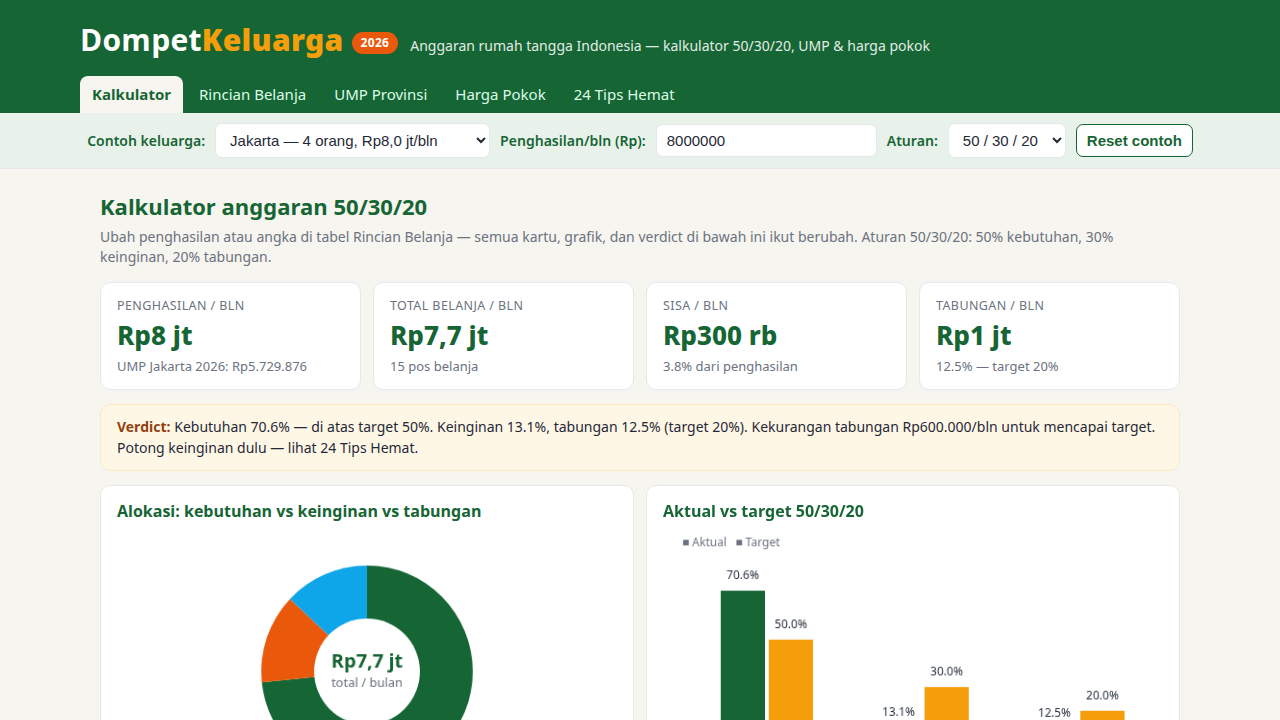
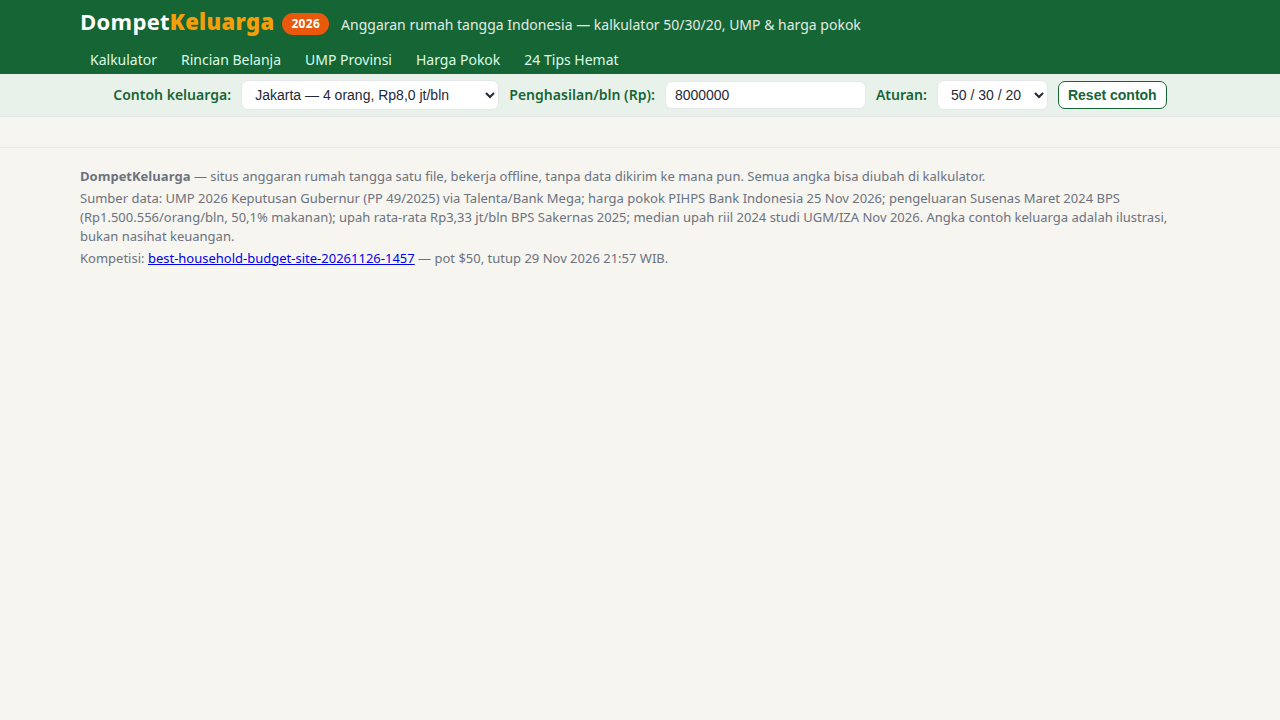
Perbaiki gap: hero strip gaji vs UMP, layar pertama dipadatkan, donat+bar muat penuh 720px, label bar dirapikan

diff --git a/app/index.html b/app/index.html
@@ -8,38 +8,44 @@
 :root{--green:#166534;--green2:#15803d;--amber:#ea580c;--amber2:#f59e0b;--ink:#1f2937;--mut:#6b7280;--line:#e5e7eb;--bg:#f7f5ef;--card:#fff;--red:#b91c1c}
 *{box-sizing:border-box;margin:0;padding:0}
 body{font-family:system-ui,-apple-system,"Segoe UI",Roboto,Arial,sans-serif;background:var(--bg);color:var(--ink);line-height:1.45}
-header{background:var(--green);color:#fff;padding:18px 20px 0}
+header{background:var(--green);color:#fff;padding:6px 20px 0}
 .wrap{max-width:1120px;margin:0 auto}
 .brand{display:flex;align-items:baseline;gap:12px;flex-wrap:wrap}
-.brand h1{font-size:30px;letter-spacing:.3px}
+.brand h1{font-size:22px;letter-spacing:.3px}
 .brand h1 b{color:var(--amber2)}
 .brand p{opacity:.88;font-size:14px}
-nav{display:flex;gap:4px;flex-wrap:wrap;margin-top:14px}
-nav a{color:#dcfce7;text-decoration:none;padding:8px 12px;border-radius:8px 8px 0 0;font-size:15px}
+nav{display:flex;gap:4px;flex-wrap:wrap;margin-top:8px}
+nav a{color:#dcfce7;text-decoration:none;padding:4px 10px;border-radius:8px 8px 0 0;font-size:14px}
 nav a:hover{background:rgba(255,255,255,.14);color:#fff}
 nav a.on{background:var(--bg);color:var(--green);font-weight:700}
-.controls{display:flex;gap:10px;align-items:center;padding:10px 20px;background:#e9f2ea;border-bottom:1px solid var(--line);flex-wrap:wrap}
+.controls{display:flex;gap:10px;align-items:center;padding:6px 20px;background:#e9f2ea;border-bottom:1px solid var(--line);flex-wrap:wrap}
 .controls label{font-size:14px;color:var(--green);font-weight:600}
-.controls select,.controls input,.controls button{font-size:15px;padding:7px 10px;border:1px solid var(--line);border-radius:7px;background:#fff;color:var(--ink)}
+.controls select,.controls input,.controls button{font-size:14px;padding:5px 9px;border:1px solid var(--line);border-radius:7px;background:#fff;color:var(--ink)}
 .controls button{background:var(--amber);color:#fff;border-color:var(--amber);font-weight:700;cursor:pointer}
 .controls button.ghost{background:#fff;color:var(--green);border-color:var(--green)}
-main{max-width:1120px;margin:0 auto;padding:18px 20px 30px}
+main{max-width:1120px;margin:0 auto;padding:6px 20px 24px}
 section.page{display:none}
 section.page.on{display:block}
-h2{font-size:22px;color:var(--green);margin:4px 0}
-.sub{color:var(--mut);font-size:14px;margin-bottom:14px}
-.cards{display:grid;grid-template-columns:repeat(4,1fr);gap:12px;margin-bottom:14px}
-.card{background:var(--card);border:1px solid var(--line);border-radius:10px;padding:14px 16px}
-.card .k{font-size:12.5px;color:var(--mut);text-transform:uppercase;letter-spacing:.4px}
-.card .v{font-size:26px;font-weight:800;color:var(--green);margin-top:2px}
+h2{font-size:20px;color:var(--green);margin:2px 0}
+.sub{color:var(--mut);font-size:13.5px;margin-bottom:8px}
+.cards{display:grid;grid-template-columns:repeat(4,1fr);gap:10px;margin-bottom:10px}
+.card{background:var(--card);border:1px solid var(--line);border-radius:10px;padding:8px 14px}
+.card .k{font-size:12px;color:var(--mut);text-transform:uppercase;letter-spacing:.4px}
+.card .v{font-size:23px;font-weight:800;color:var(--green);margin-top:1px}
+.hero{display:flex;gap:0;background:var(--green);color:#fff;border-radius:10px;margin-bottom:8px;overflow:hidden}
+.hero div{flex:1;padding:6px 14px;border-left:1px solid rgba(255,255,255,.25)}
+.hero div:first-child{border-left:none}
+.hero .hk{font-size:12px;opacity:.85}
+.hero .hv{font-size:17px;font-weight:800;color:var(--amber2)}
+.hero .hd{font-size:12px;opacity:.85}
 .card .v small{font-size:14px;font-weight:600;color:var(--mut)}
 .card .d{font-size:13px;color:var(--mut);margin-top:2px}
 .card.warn .v{color:var(--red)}
-.grid2{display:grid;grid-template-columns:1fr 1fr;gap:12px;margin-bottom:14px}
+.grid2{display:grid;grid-template-columns:1fr 1fr;gap:10px;margin-bottom:10px}
 .card h3{font-size:16px;color:var(--green);margin-bottom:4px}
 .card .note{font-size:12.5px;color:var(--mut);margin-top:6px}
 canvas{width:100%;height:auto;display:block}
-.strip{background:#fff7e6;border:1px solid #fde9c0;border-radius:10px;padding:12px 16px;font-size:14px;margin-bottom:14px}
+.strip{background:#fff7e6;border:1px solid #fde9c0;border-radius:10px;padding:8px 14px;font-size:13.5px;margin-bottom:10px}
 .strip b{color:#92400e}
 table{width:100%;border-collapse:collapse;font-size:14.5px}
 th,td{padding:8px 10px;text-align:right;border-bottom:1px solid var(--line)}
@@ -47,8 +53,8 @@ th:first-child,td:first-child{text-align:left}
 th{cursor:pointer;color:var(--green);user-select:none;white-space:nowrap}
 th:hover{text-decoration:underline}
 tr:hover td{background:#f8faf9}
-.legend{list-style:none;font-size:14px;margin-top:8px}
-.legend li{margin:4px 0}
+.legend{list-style:none;font-size:13px;margin-top:4px;display:flex;gap:14px;flex-wrap:wrap}
+.legend li{margin:0}
 .legend i{display:inline-block;width:12px;height:12px;border-radius:3px;margin-right:7px}
 input.num{width:130px;font-size:14px;padding:6px 8px;border:1px solid var(--line);border-radius:6px;text-align:right}
 .tip{display:flex;gap:10px;align-items:flex-start;padding:10px 0;border-bottom:1px solid var(--line)}
@@ -60,6 +66,7 @@ footer{border-top:1px solid var(--line);padding:16px 20px 26px;color:var(--mut);
 footer .wrap p{margin:3px 0}
 .badge{display:inline-block;background:var(--amber);color:#fff;font-size:12px;font-weight:700;border-radius:20px;padding:2px 9px;margin-left:8px;vertical-align:middle}
 @media (max-width:720px){
+  .hero{flex-wrap:wrap}.hero div{flex:1 1 40%}
   .cards{grid-template-columns:1fr 1fr}
   .grid2{grid-template-columns:1fr}
   .brand h1{font-size:24px}
@@ -97,17 +104,23 @@ footer .wrap p{margin:3px 0}
 <main>
 <section class="page" id="page-kalkulator">
 <h2>Kalkulator anggaran 50/30/20</h2>
-<p class="sub">Ubah penghasilan atau angka di tabel Rincian Belanja — semua kartu, grafik, dan verdict di bawah ini ikut berubah. Aturan 50/30/20: 50% kebutuhan, 30% keinginan, 20% tabungan.</p>
+<p class="sub">Ubah penghasilan atau angka di Rincian Belanja — semua kartu, grafik, dan verdict ikut berubah.</p>
+<div class="hero">
+<div><div class="hk">Gaji contoh vs UMP Jakarta</div><div class="hv" id="heroUmp">1,4× UMP</div><div class="hd">Rp8,0 jt vs Rp5.729.876</div></div>
+<div><div class="hk">Gaji contoh vs UMP Jawa Barat</div><div class="hv" id="heroUmpJabar">3,5× UMP</div><div class="hd">Rp8,0 jt vs Rp2.317.601</div></div>
+<div><div class="hk">Keranjang pokok / bulan</div><div class="hv">Rp1,02 jt</div><div class="hd" id="heroBasket">12,7% dari gaji Rp8,0 jt</div></div>
+<div><div class="hk">Potensi hemat 24 tips</div><div class="hv">Rp2,33 jt/bln</div><div class="hd">29% dari gaji — lihat Tips Hemat</div></div>
+</div>
 <div class="cards">
 <div class="card"><div class="k">Penghasilan / bln</div><div class="v" id="cIncome">Rp8,0 jt</div><div class="d" id="cIncomeNote">UMP Jakarta 2026: Rp5.729.876</div></div>
 <div class="card"><div class="k">Total belanja / bln</div><div class="v" id="cSpend">Rp7,7 jt</div><div class="d" id="cSpendNote">15 pos belanja</div></div>
 <div class="card" id="surplusCard"><div class="k">Sisa / bln</div><div class="v" id="cSurplus">Rp300 rb</div><div class="d" id="cSurplusNote">3,8% dari penghasilan</div></div>
 <div class="card"><div class="k">Tabungan / bln</div><div class="v" id="cSave">Rp1,0 jt</div><div class="d" id="cSaveNote">12,5% — target 20%</div></div>
 </div>
-<div class="strip" id="verdict"><b>Verdict:</b> Kebutuhan 70,6% — di atas target 50%. Ini wajar untuk keluarga Jakarta: sewa + makanan saja sudah Rp3,35 jt. Keinginan ditekan ke 13,1% dan tabungan 12,5% — naikkan tabungan dulu Rp600 rb/bln untuk mencapai 20%.</div>
+<div class="strip" id="verdict"><b>Verdict:</b> Kebutuhan 70,6% (target 50%) • Keinginan 13,1% • Tabungan 12,5% (target 20%). Kurang Rp600.000/bln — potong keinginan dulu, lihat Tips Hemat.</div>
 <div class="grid2">
-<div class="card"><h3>Alokasi: kebutuhan vs keinginan vs tabungan</h3><canvas id="donut" width="520" height="300"></canvas><ul class="legend" id="donutLegend"></ul><p class="note">Donat dihitung dari 15 pos belanja contoh Jakarta. Ubah angka di Rincian Belanja untuk melihat donat berubah.</p></div>
-<div class="card"><h3>Aktual vs target 50/30/20</h3><canvas id="barTarget" width="520" height="300"></canvas><p class="note" id="barNote">Kebutuhan melebihi target 20,6 poin; keinginan di bawah target 16,9 poin; tabungan di bawah target 7,5 poin.</p></div>
+<div class="card"><h3>Alokasi belanja (% dari total belanja)</h3><canvas id="donut" width="520" height="200"></canvas><ul class="legend" id="donutLegend"></ul></div>
+<div class="card"><h3>Aktual vs target 50/30/20</h3><canvas id="barTarget" width="520" height="200"></canvas><p class="note" id="barNote">Kebutuhan melebihi target 20,6 poin; keinginan di bawah target 16,9 poin; tabungan di bawah target 7,5 poin.</p></div>
 </div>
 <div class="grid2">
 <div class="card"><h3>Proyeksi tabungan 12 bulan</h3><canvas id="lineSave" width="520" height="260"></canvas><p class="note" id="saveProj">Menabung Rp1,0 jt/bln: Rp12,0 jt dalam 12 bulan, Rp60,0 jt dalam 5 tahun (tanpa bunga).</p></div>
@@ -224,9 +237,9 @@ const TIPS=[
 {g:'D',t:'Patok amplop mingguan untuk jajan anak',s:50000,d:'Jajan tanpa batas Rp10 rb/hari/anak cepat jadi Rp400 rb/bln untuk 2 anak.'}];
 function sums(){let n=0,w=0,s=0;for(const it of ITEMS){const v=state.exp[it.id]||0;if(it.cat==='Kebutuhan')n+=v;else if(it.cat==='Keinginan')w+=v;else s+=v}return{needs:n,wants:w,save:s,total:n+w+s}}
 function ruleParts(){const r=$('rule').value.split('-').map(Number);return{needs:r[0],wants:r[1],save:r[2]}}
-function drawDonut(){const c=$('donut'),x=c.getContext('2d');const s=sums();const tot=s.total||1;const cols=['#166534','#ea580c','#0ea5e9'];const vals=[s.needs,s.wants,s.save];const labs=['Kebutuhan','Keinginan','Tabungan'];x.clearRect(0,0,c.width,c.height);let a=-Math.PI/2;vals.forEach((v,i)=>{const sw=v/tot*Math.PI*2;x.beginPath();x.moveTo(260,150);x.arc(260,150,110,a,a+sw);x.closePath();x.fillStyle=cols[i];x.fill();a+=sw});x.beginPath();x.arc(260,150,55,0,Math.PI*2);x.fillStyle='#fff';x.fill();x.fillStyle='#166534';x.font='bold 20px system-ui';x.textAlign='center';x.fillText(fmtShort(s.total),260,146);x.font='13px system-ui';x.fillStyle='#6b7280';x.fillText('total / bulan',260,166);
-$('donutLegend').innerHTML=vals.map((v,i)=>`<li><i style="background:${cols[i]}"></i>${labs[i]}: <b>${fmt(v)}</b> (${(v/tot*100).toFixed(1)}%)</li>`).join('')}
-function drawBars(cv,labels,actual,target,unit){const c=$(cv),x=c.getContext('2d');x.clearRect(0,0,c.width,c.height);const max=Math.max(...actual,...target,10)*1.15;const bw=46,gap=70;labels.forEach((lb,i)=>{const bx=60+i*(bw*2+gap);const ah=actual[i]/max*200,th=target[i]/max*200;x.fillStyle='#166534';x.fillRect(bx,240-ah,bw,ah);x.fillStyle='#f59e0b';x.fillRect(bx+bw+4,240-th,bw,th);x.fillStyle='#1f2937';x.font='12px system-ui';x.textAlign='center';x.fillText(actual[i].toFixed(1)+unit,bx+bw/2,228-ah);x.fillText(target[i].toFixed(1)+unit,bx+bw*1.5+4,228-th);x.fillText(lb,bx+bw,262)});x.fillStyle='#6b7280';x.font='12px system-ui';x.textAlign='left';x.fillText('■ Aktual   ■ Target',20,20)}
+function drawDonut(){const c=$('donut'),x=c.getContext('2d');const s=sums();const tot=s.total||1;const cols=['#166534','#ea580c','#0ea5e9'];const vals=[s.needs,s.wants,s.save];const labs=['Kebutuhan','Keinginan','Tabungan'];x.clearRect(0,0,c.width,c.height);let a=-Math.PI/2;vals.forEach((v,i)=>{const sw=v/tot*Math.PI*2;x.beginPath();x.moveTo(260,98);x.arc(260,98,76,a,a+sw);x.closePath();x.fillStyle=cols[i];x.fill();a+=sw});x.beginPath();x.arc(260,98,38,0,Math.PI*2);x.fillStyle='#fff';x.fill();x.fillStyle='#166534';x.font='bold 18px system-ui';x.textAlign='center';x.fillText(fmtShort(s.total),260,94);x.font='12px system-ui';x.fillStyle='#6b7280';x.fillText('total / bulan',260,112);
+$('donutLegend').innerHTML=vals.map((v,i)=>`<li><i style="background:${cols[i]}"></i>${labs[i]} <b>${(v/tot*100).toFixed(1)}%</b></li>`).join('')
+function drawBars(cv,labels,actual,target,unit){const c=$(cv),x=c.getContext('2d');x.clearRect(0,0,c.width,c.height);const max=Math.max(...actual,...target,10)*1.15;const bw=46,gap=70;labels.forEach((lb,i)=>{const bx=60+i*(bw*2+gap);const ah=actual[i]/max*125,th=target[i]/max*125;x.fillStyle='#166534';x.fillRect(bx,168-ah,bw,ah);x.fillStyle='#f59e0b';x.fillRect(bx+bw+4,168-th,bw,th);x.fillStyle='#1f2937';x.font='bold 12px system-ui';x.textAlign='center';x.fillText(actual[i].toFixed(1)+unit,bx+bw/2,Math.max(28,156-ah));x.fillText(target[i].toFixed(1)+unit,bx+bw*1.5+4,Math.max(28,156-th));x.font='12px system-ui';x.fillText(lb,bx+bw,188)});x.fillStyle='#6b7280';x.font='12px system-ui';x.textAlign='left';x.fillText('■ Aktual   ■ Target',20,14)}
 function drawLine(){const c=$('lineSave'),x=c.getContext('2d');const s=sums();x.clearRect(0,0,c.width,c.height);const pts=[];for(let m=0;m<=12;m++)pts.push(s.save*m);const max=Math.max(...pts,1);x.strokeStyle='#e5e7eb';for(let g=0;g<=4;g++){const y=210-g*45;x.beginPath();x.moveTo(50,y);x.lineTo(500,y);x.stroke();x.fillStyle='#6b7280';x.font='11px system-ui';x.textAlign='right';x.fillText(fmtShort(max*g/4),44,y+4)}x.strokeStyle='#166534';x.lineWidth=3;x.beginPath();pts.forEach((v,i)=>{const px=50+i*(450/12),py=210-v/max*180;i?x.lineTo(px,py):x.moveTo(px,py)});x.stroke();x.fillStyle='#166534';x.font='bold 13px system-ui';x.textAlign='center';x.fillText(fmt(pts[12])+' dalam 12 bulan',275,240)}
 function drawUMP(){const c=$('barUMP'),x=c.getContext('2d');const top=[...UMP].sort((a,b)=>b.ump-a.ump).slice(0,6);x.clearRect(0,0,c.width,c.height);const max=top[0].ump*1.1;top.forEach((p,i)=>{const y=30+i*40;const w=p.ump/max*380;x.fillStyle=i===0?'#166534':'#15803d';x.fillRect(120,y,w,24);x.fillStyle='#1f2937';x.font='12px system-ui';x.textAlign='right';x.fillText(p.prov,112,y+17);x.textAlign='left';x.fillText(fmtShort(p.ump),126+w,y+17)})}
 function drawBasket(){const c=$('barBasket'),x=c.getContext('2d');const items=PRICES.filter(p=>p.qty>0);x.clearRect(0,0,c.width,c.height);const max=Math.max(...items.map(p=>p.price*p.qty))*1.15;items.forEach((p,i)=>{const y=24+i*26;const w=p.price*p.qty/max*360;x.fillStyle='#ea580c';x.fillRect(150,y,w,18);x.fillStyle='#1f2937';x.font='12px system-ui';x.textAlign='right';x.fillText(p.name,142,y+14);x.textAlign='left';x.fillText(fmt(p.price*p.qty),156+w,y+14)})}
@@ -236,8 +249,9 @@ $('cIncome').textContent=fmtShort(inc);$('cSpend').textContent=fmtShort(s.total)
 const sur=inc-s.total;$('cSurplus').textContent=fmtShort(Math.max(sur,0))+(sur<0?' (tekor)':'');$('cSurplusNote').textContent=(sur/inc*100).toFixed(1)+'% dari penghasilan';
 $('surplusCard').classList.toggle('warn',sur<0);
 $('cSave').textContent=fmtShort(s.save);$('cSaveNote').textContent=(s.save/inc*100).toFixed(1)+'% — target '+rp.save+'%';
+$('heroUmp').textContent=(inc/5729876).toFixed(1)+'× UMP';$('heroUmpJabar').textContent=(inc/2317601).toFixed(1)+'× UMP';$('heroBasket').textContent=(1016975/inc*100).toFixed(1)+'% dari gaji '+fmtShort(inc);
 const np=s.needs/inc*100,wp=s.wants/inc*100,sp=s.save/inc*100;
-$('verdict').innerHTML='<b>Verdict:</b> Kebutuhan '+np.toFixed(1)+'% '+(np>rp.needs?'— di atas target '+rp.needs+'%.':'— dalam target '+rp.needs+'%.')+' Keinginan '+wp.toFixed(1)+'%, tabungan '+sp.toFixed(1)+'% (target '+rp.save+'%). '+(sp<rp.save?'Kekurangan tabungan '+fmt((rp.save/100*inc)-s.save)+'/bln untuk mencapai target. Potong keinginan dulu — lihat 24 Tips Hemat.':"Target tabungan tercapai — pertahankan dan naikkan dana darurat ke 3–6 bulan belanja.");
+$('verdict').innerHTML='<b>Verdict:</b> Kebutuhan '+np.toFixed(1)+'% (target '+rp.needs+'%) • Keinginan '+wp.toFixed(1)+'% • Tabungan '+sp.toFixed(1)+'% (target '+rp.save+'%). '+(sp<rp.save?'Kurang '+fmt((rp.save/100*inc)-s.save)+'/bln — potong keinginan dulu, lihat Tips Hemat.':"Target tabungan tercapai — naikkan dana darurat ke 3–6 bulan belanja.");
 $('barNote').textContent='Kebutuhan '+(np-rp.needs).toFixed(1)+' poin vs target; keinginan '+(wp-rp.wants).toFixed(1)+' poin; tabungan '+(sp-rp.save).toFixed(1)+' poin.';
 $('saveProj').textContent='Menabung '+fmt(s.save)+'/bln: '+fmt(s.save*12)+' dalam 12 bulan, '+fmt(s.save*60)+' dalam 5 tahun (tanpa bunga).';
 const emerg=s.needs*3;$('emergMonths').textContent=s.needs>0?(s.save*12/s.needs).toFixed(1)+' bulan':'—';
